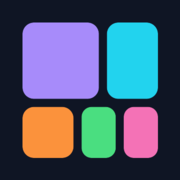
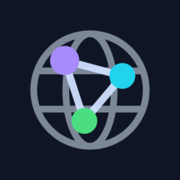
Make the mark an atlas and a network
Replaces the scaffold's purple bolt: a globe of meridians with nodes wired
across it — the two things the app is. The header draws the same shapes inline
instead of a generic compass.

Sizes each platform actually reads: a flattened 180px apple-touch-icon, since
iOS ignores manifest icons for the home screen and applies its own rounding;
192 and 512 PNGs plus a full-bleed maskable variant inset to 66%, for Android's
adaptive icons cropping to a circle inside the middle 80%; a 32px PNG for
browsers that will not take an SVG; and site.webmanifest with a theme colour.

The PNGs are rendered from the SVG with headless Chrome. ImageMagick has no
librsvg here and falls back to its internal SVG renderer, which drops strokes
entirely — the first attempt produced three coloured dots and no globe.

Also removes three files a mistyped shell loop had committed, named after the
size argument rather than taking it.

diff --git a/src/components/BrandMark.tsx b/src/components/BrandMark.tsx
@@ -1,18 +1,23 @@
 /**
- * The app's own mark: the root canvas in miniature — a treemap of the eras in
- * the six accent colours the AI map uses. Inline rather than an <img> so it
- * takes its size from CSS and costs no extra request; it is the same drawing as
- * `public/favicon.svg`, and the two should be changed together.
+ * An atlas and a network in one mark: a globe of meridians with nodes wired
+ * across it. The same drawing as `public/favicon.svg` — inline here so it takes
+ * its size from CSS and costs no extra request. Change the two together.
  */
 export function BrandMark({ size = 18 }: { size?: number }) {
   return (
     <svg width={size} height={size} viewBox="0 0 64 64" role="img" aria-label="AI Atlas">
       <rect width="64" height="64" rx="14" fill="#0f1524" />
-      <rect x="8" y="8" width="27" height="27" rx="4" fill="#a78bfa" />
-      <rect x="38" y="8" width="18" height="27" rx="4" fill="#22d3ee" />
-      <rect x="8" y="38" width="18" height="18" rx="4" fill="#fb923c" />
-      <rect x="29" y="38" width="12" height="18" rx="3.5" fill="#4ade80" />
-      <rect x="44" y="38" width="12" height="18" rx="3.5" fill="#f472b6" />
+      <g fill="none" stroke="#7c8798" strokeWidth="2.4" strokeLinecap="round">
+        <circle cx="32" cy="32" r="20" />
+        <ellipse cx="32" cy="32" rx="8.6" ry="20" />
+        <path d="M13.2 25.2h37.6M13.2 38.8h37.6" />
+      </g>
+      <g stroke="#cfe0ff" strokeWidth="2.6" strokeLinecap="round" opacity="0.95">
+        <path d="M23 21.5 43.5 27M23 21.5 30 43M43.5 27 30 43" />
+      </g>
+      <circle cx="23" cy="21.5" r="5.2" fill="#a78bfa" />
+      <circle cx="43.5" cy="27" r="4.6" fill="#22d3ee" />
+      <circle cx="30" cy="43" r="4.6" fill="#4ade80" />
     </svg>
   )
 }

diff --git a/README.md b/README.md
@@ -490,10 +490,15 @@ some tile at it.
 
 ### The mark
 
-`public/favicon.svg` is the app's own root canvas in miniature — a treemap of
-the eras in the six accent colours the AI map actually uses — and
-`src/components/BrandMark.tsx` draws the same shapes inline for the header. They
-are one drawing in two places and should change together.
+`public/favicon.svg` is an atlas and a network in one mark — a globe of
+meridians with nodes wired across it — and `src/components/BrandMark.tsx` draws
+the same shapes inline for the header. They are one drawing in two places and
+should change together.
+
+The PNGs are rendered from that SVG with headless Chrome rather than
+ImageMagick: without `librsvg` installed, ImageMagick falls back to its own SVG
+renderer, which silently drops the strokes and leaves you with three coloured
+dots and no globe.
 
 Around it: a 180px `apple-touch-icon.png`, because iOS ignores the manifest's
 icons for the home screen; 192 and 512 PNGs plus a full-bleed maskable variant
